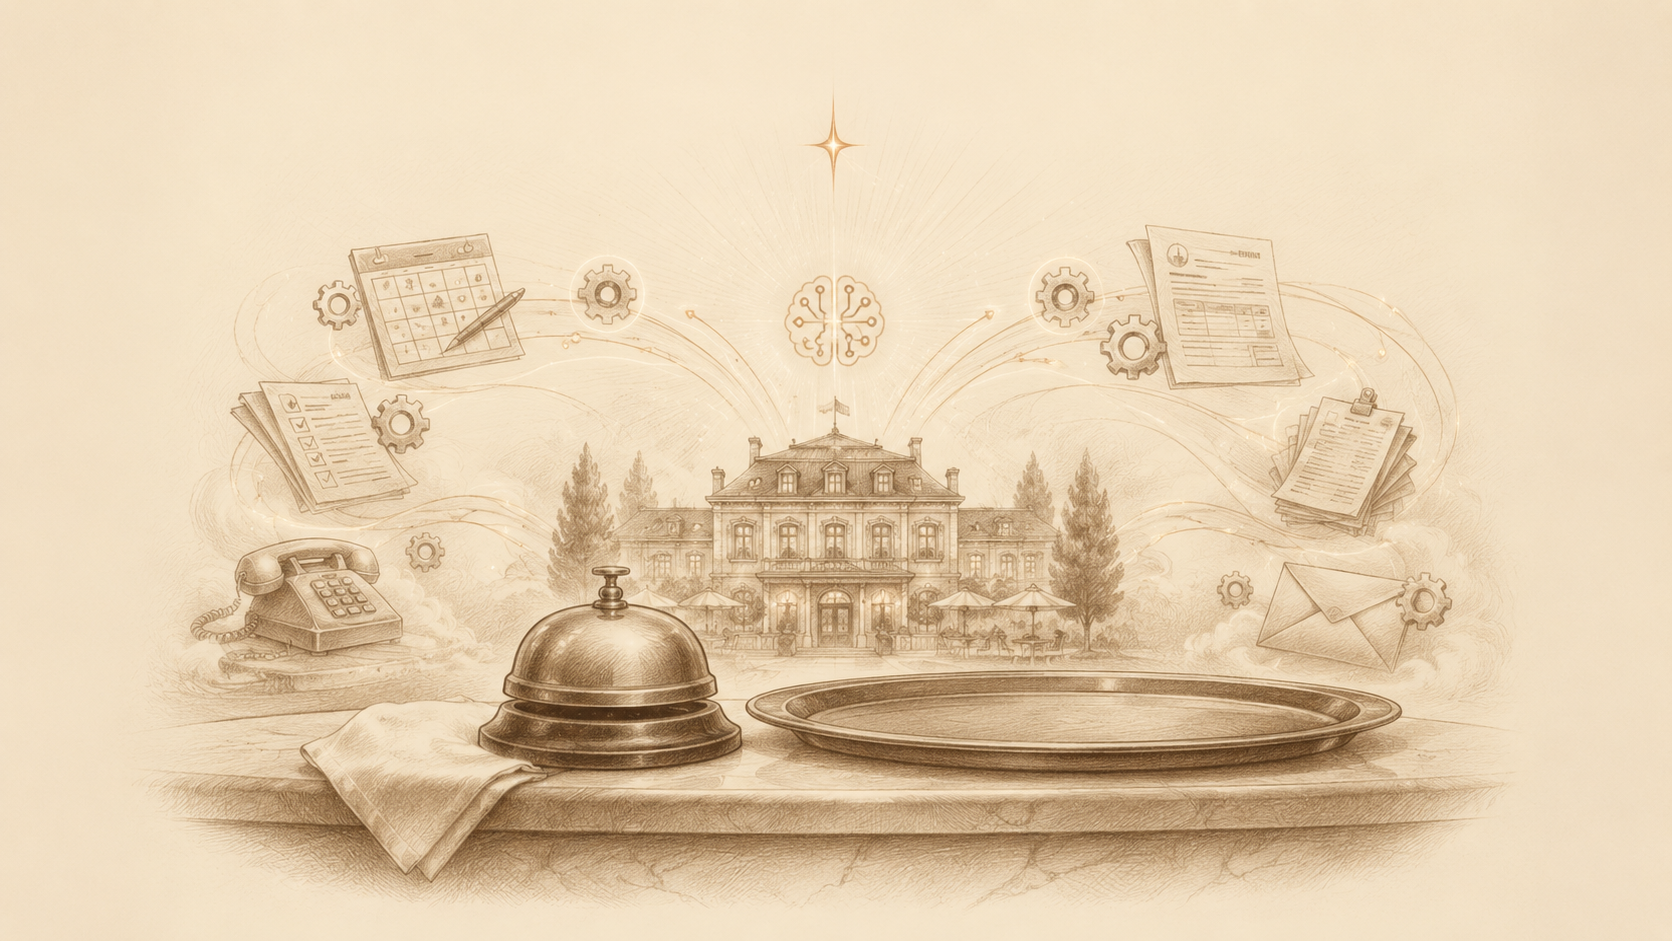
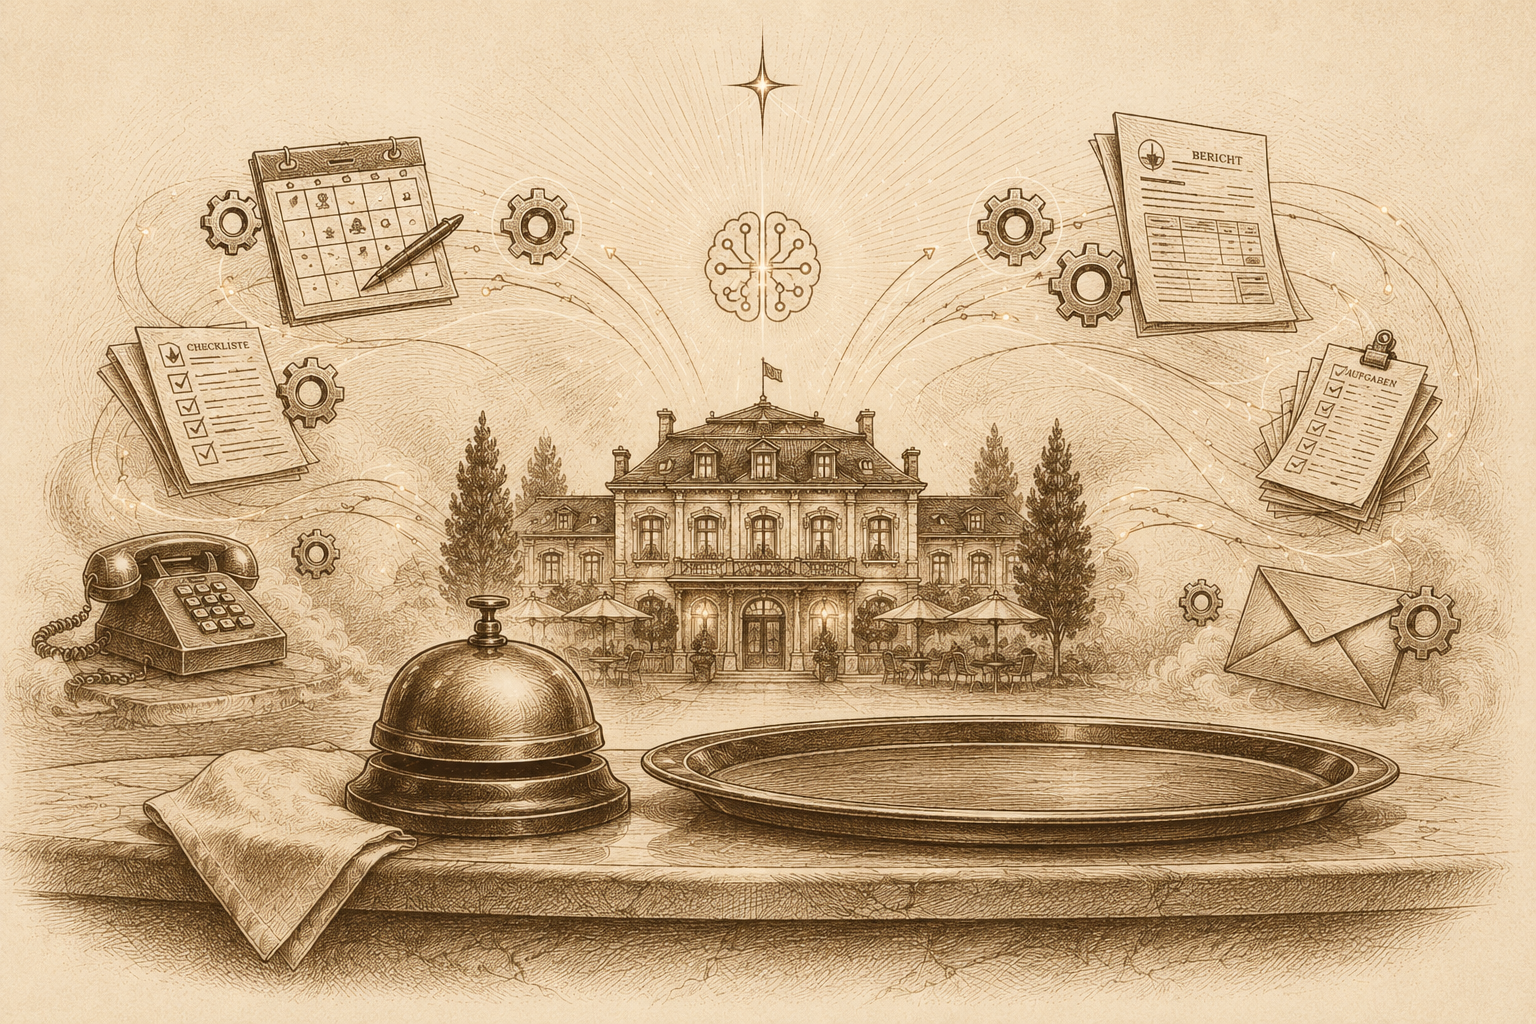
Blog-Cover: neues Fachkraeftemangel-Bild + weicher Creme-Schleier
Neues Titelbild fuer den Fachkraeftemangel-Artikel. Zusaetzlich ein
sanfter Creme-Verlauf (.cover-frame) auf allen Blog-Covern — softet oben
ab und blendet unten in die Karte, wie bei den Seiten-Bannern. Harte
Trennlinien entfernt.

diff --git a/src/styles/global.css b/src/styles/global.css
@@ -627,6 +627,14 @@ a.offercard:hover .postcard__title{color:var(--facc)}
 .blogcover--empty{display:grid;place-items:center;color:var(--wood);
   background:radial-gradient(circle at 50% 30%,#FFFDF8,var(--paper2))}
 .blogcover--empty svg{width:42%;opacity:.45}
+/* Weicher Creme-Schleier auf Cover-Bildern (wie bei den Seiten-Bannern) */
+.cover-frame{position:relative}
+.cover-frame::after{content:"";position:absolute;inset:0;pointer-events:none;z-index:1;
+  background:linear-gradient(180deg,
+    rgba(247,244,239,.12) 0%,
+    rgba(247,244,239,0) 24%,
+    rgba(247,244,239,0) 60%,
+    rgba(247,244,239,.5) 100%)}
 
 /* ---------- Über ---------- */
 .about{display:grid;gap:2.6rem;align-items:start;margin-top:2.6rem}